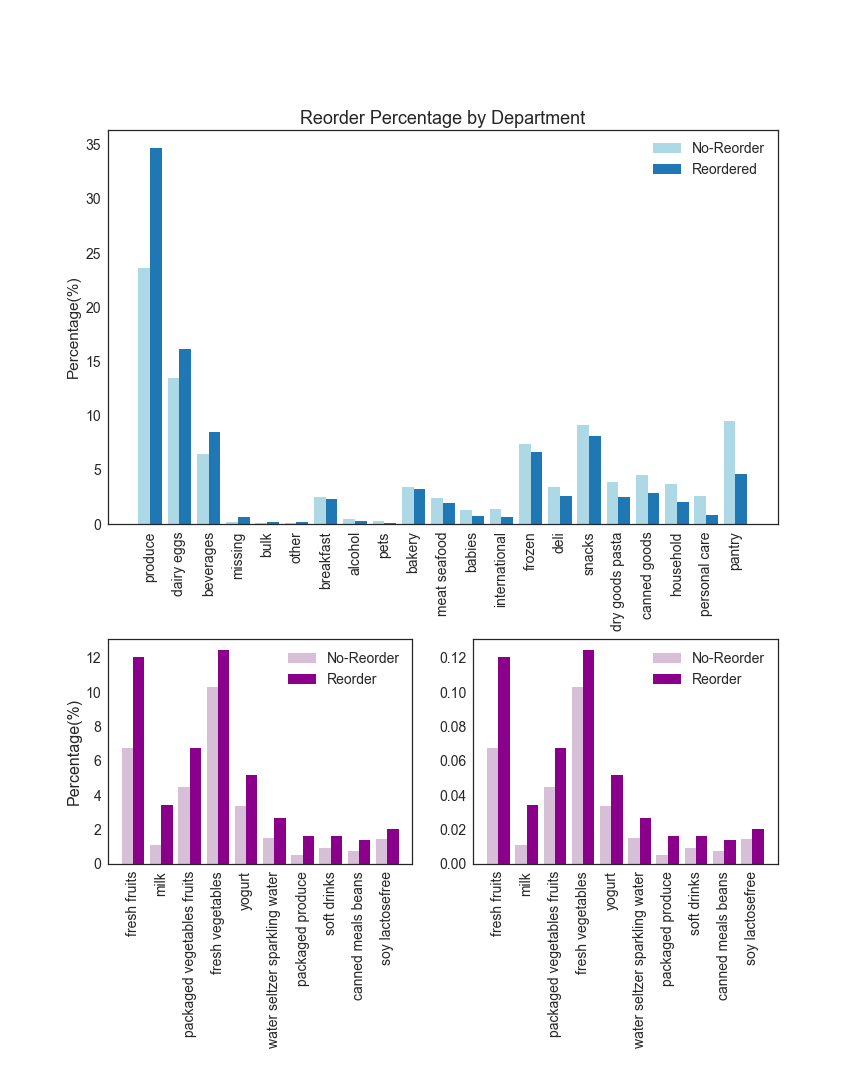
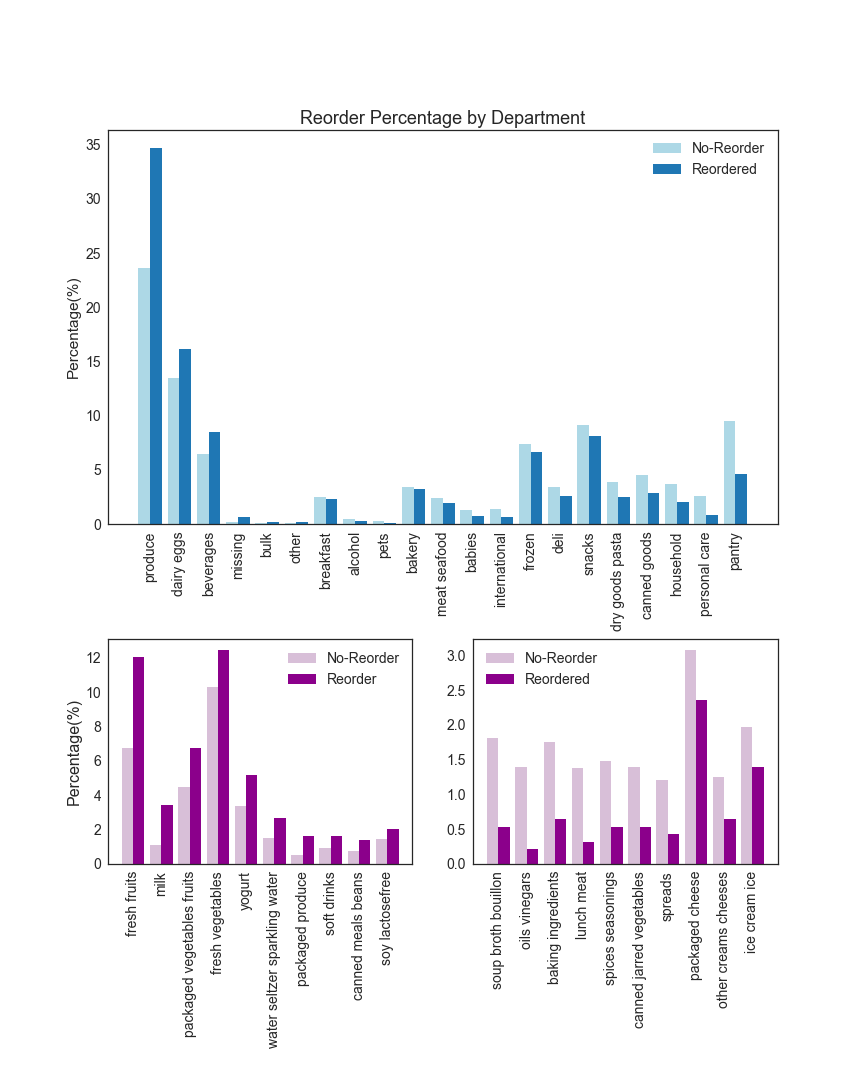
fix figure

Changed region(s): [[0.5625, 0.5806, 0.9062, 0.9778], [0.5, 0.5806, 0.5312, 0.825]]

diff --git a/working_directory/2018-08-11-Instacart.md b/working_directory/2018-08-11-Instacart.md
@@ -6,49 +6,49 @@ This is a project adpated from the [Instacart Market Basket Analysis Competition
 
 ### Scope
 
-In original Kaggle competition asked to predcit what customer would purchase in his next order, given the order history info. We  modified a little bit by predicting whether he would reorder the products he had ordered in the past.
+The original Kaggle competition asked to predcit what customer would purchase in his next order, given the order history info. We  modified a little bit by predicting whether he would reorder the products he had ordered in the past.
 
 ### Data
-The data can be downloaded from [Kaggle](https://www.kaggle.com/c/instacart-market-basket-analysis/data) directly. Here's a simple diagram on the tables in SQL format. The whole dataset was uploaded to AWS. I chose t2.2xlarge instance, which worked ok most of hte time, except that for some merges, I had to delete some variables to free up the 
-RAM. Pandas was used for data cleaning, feature engineering and training the model.    
+The data can be downloaded from [Kaggle](https://www.kaggle.com/c/instacart-market-basket-analysis/data) directly. Here's a simple diagram on the tables in SQL format. I use AWS when working with the entire dataset. The t2.2xlarge instance worked ok most of hte time, except that for some merges, I had to delete some variables to free up the RAM. Pandas was used for data cleaning, feature engineering and training the model.    
 <img src= '../images/08112018/diagram.png'>
 
 
 ### Features
-The features I can be grouped into the following 4 main categories:
+The features I engineered can be grouped into the following 4 main categories:
 - User Features  
 - Product Features
 - User-Product Features
 - Order Specific  
+
 You can find the feature details at my [Github repo](https://github.com/caiy7/Project_Mcnulty/blob/master/README.md). 
 
 ### Model Selection
-Model Selection was performed on a subset of data (~2.5% of the total data) locally. 
+Model Selection was performed on a subset of data (~2.5% of the total data) on laptop locally. 
 
-To evaluate the model, I chose F1 score as the metrics. I would like to catch the correct product as many as I can, but as the same time, I don't want to overwhelm the user by recommending products they are not interested in. F1 score provides the balance on the trade off between recall and precision.  
+To evaluate the model, I chose F1 score as the metrics. I would like to catch the correct products as many as I can, but at the same time, I don't want to overwhelm the users by recommending products they are not interested in. F1 score provides the balance on the trade off between recall and precision.  
 
-I tried Logistic Regression, Random Forest and Gradient Boosting. Gradient Boosting gave slightly better result. When using Logistic Regressionl, all categorical features were converted to dummie variables and different strength of regularization was tested.  
+I tried Logistic Regression, Random Forest and Gradient Boosting. Gradient Boosting gave slightly better result. When using Logistic Regressionl, all categorical features were converted to dummie variables. Polynomial features, log tranformed features and different strength of regularization were also tested under Logistic Regression.  
 
 After tuning, the average f1 score on 5-fold cross validation was 0.429 with average adjusted probability threshold at 0.2138. 
 
 ### Final Model and Testing
  Then I moved to AWS to build up the final model and evaluate on a holdout set with 15% of the whole data. 
- The test f1 score was 0.401, a little bit lower than I originally expected. The AUCs were the same for my final model and the model on the subset. It doesn't seem like the model overfitted. Then I plotted f1 score over the probability threshold. It seems that the probability for the optimal f1 shifted, which caused decrease on the f1 score of the final test. This is probably because the subset data size is not large enough.   
+ The test f1 score was 0.401, lower than my expectation. It doesn't seem like the model overfitted, as the AUC scores were the same. I plotted f1 score over the probability threshold. And it seems that the probability for the optimal f1 shifted, which caused decrease on the f1 score of the final test. This is probably because the subset data size is not large enough.   
  <img src='../images/08112018/f1_score_annotation.png'> 
 
  ### Discussion
 
  #### Feature importance  
- To see what features contributed most to the model, I ploted the featuren importance in term of gain. Not surprisingly, the user-product specific features are the most important ones.   
- In fact the first top 3 feature contribute great predictive power. A scatter plot of feature on when was the last order the customer purchased the product and the feature on percent of the orders containing the product shows some patter of the target. The histgram on average days between the orders containing the product also shows that with the long gap between orders, the less likely the user will re-order. 
+ To see what features contributed most to the model, I plotted the featuren importance in term of gain. Not surprisingly, the user-product specific features were the most important ones.   
+ In fact, the first top 3 features contributed great predictive power. A scatter plot of feature on when was the last order the customer purchased the product and the feature on percentage of the orders containing the product showed some pattern of the targets. The histgram on average days between the orders containing the product also showed that with the longer gap between orders, the less likely the user would re-order. 
 <iframe src="https://public.tableau.com/views/mcnulty_features/Dashboard2?:embed=y&:display_count=yes" width="645" height="955"></iframe>
 
  #### Product type 
- Plot of reordering percentage of products by department or aisle reveals that product type matters. Products that don't last long or people consume on a daily or weekly basis have a higher reorder percentage, for example, fresh fruit and milk. Products that people can stock up on or products that people use only once in a while have lower reorder percentage.  
+ Plot of reordering percentage of products by department or aisle revealed that product type matters. Products that don't last long or people consume on a daily or weekly basis have a higher reorder percentage, for example, fresh fruit and milk. Products that people can stock up on or products that people use only once in a while have lower reorder percentage.  
  <img src="../images/08112018/product_type.png">
 
 ### Next Steps
-For the current model, aggregated feature were weighted evenly across time. Static time features like gaps between order or days since last purchase were added seprately. Incorporating time series features or time weighted features, for example, order counts based on exponential deday might improve the performance. And I will definitely work with a larger dataset when selecting and tuning models. 
+For the current model, aggregated features were weighted evenly across time. Static time features like gaps between order or days since last purchase were added seprately. Incorporating time series features or time weighted features, for example, order counts with exponential deday over time might improve the performance. And I will definitely work with a larger dataset when selecting and tuning models in the future. 
 
 Also I think it will make the project more complete if I could implement an interactive system using flask and D3. That's something I will work on as well.
 
